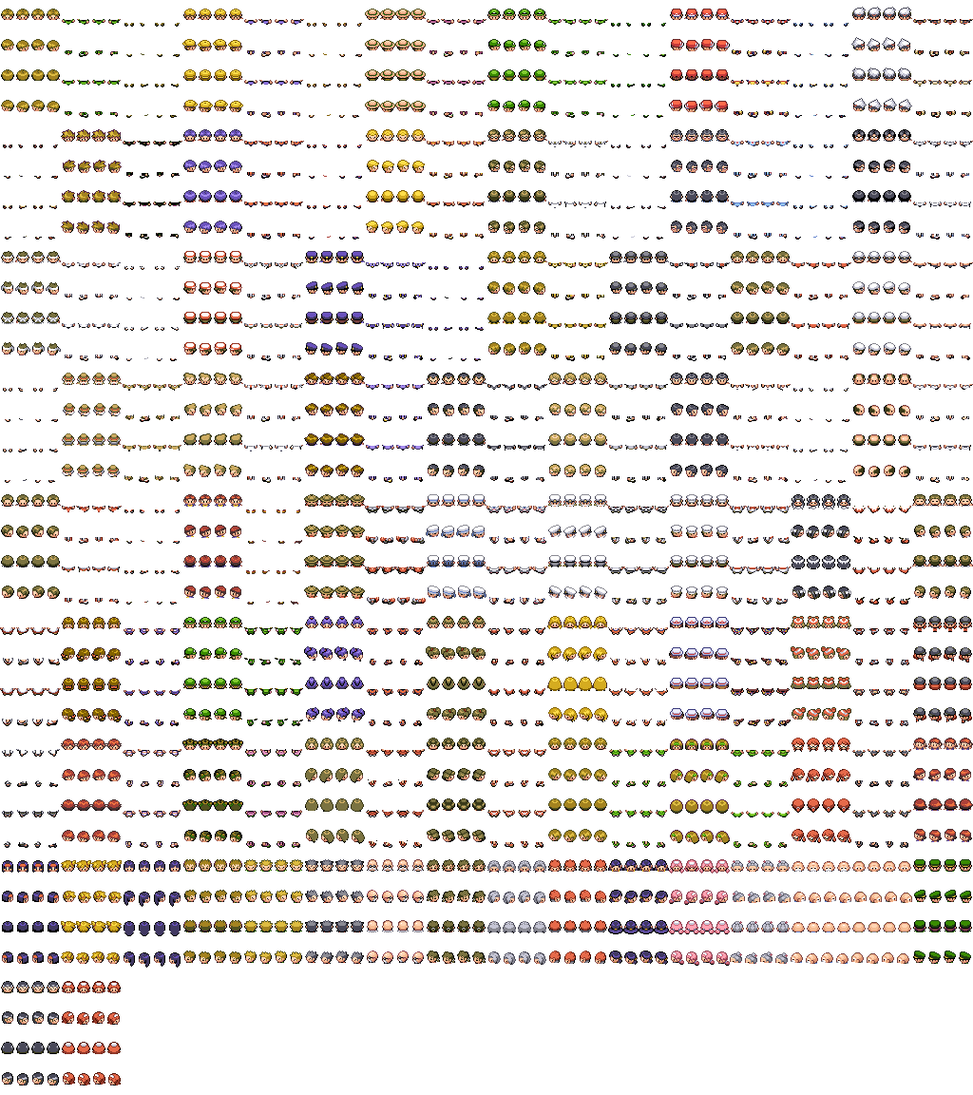
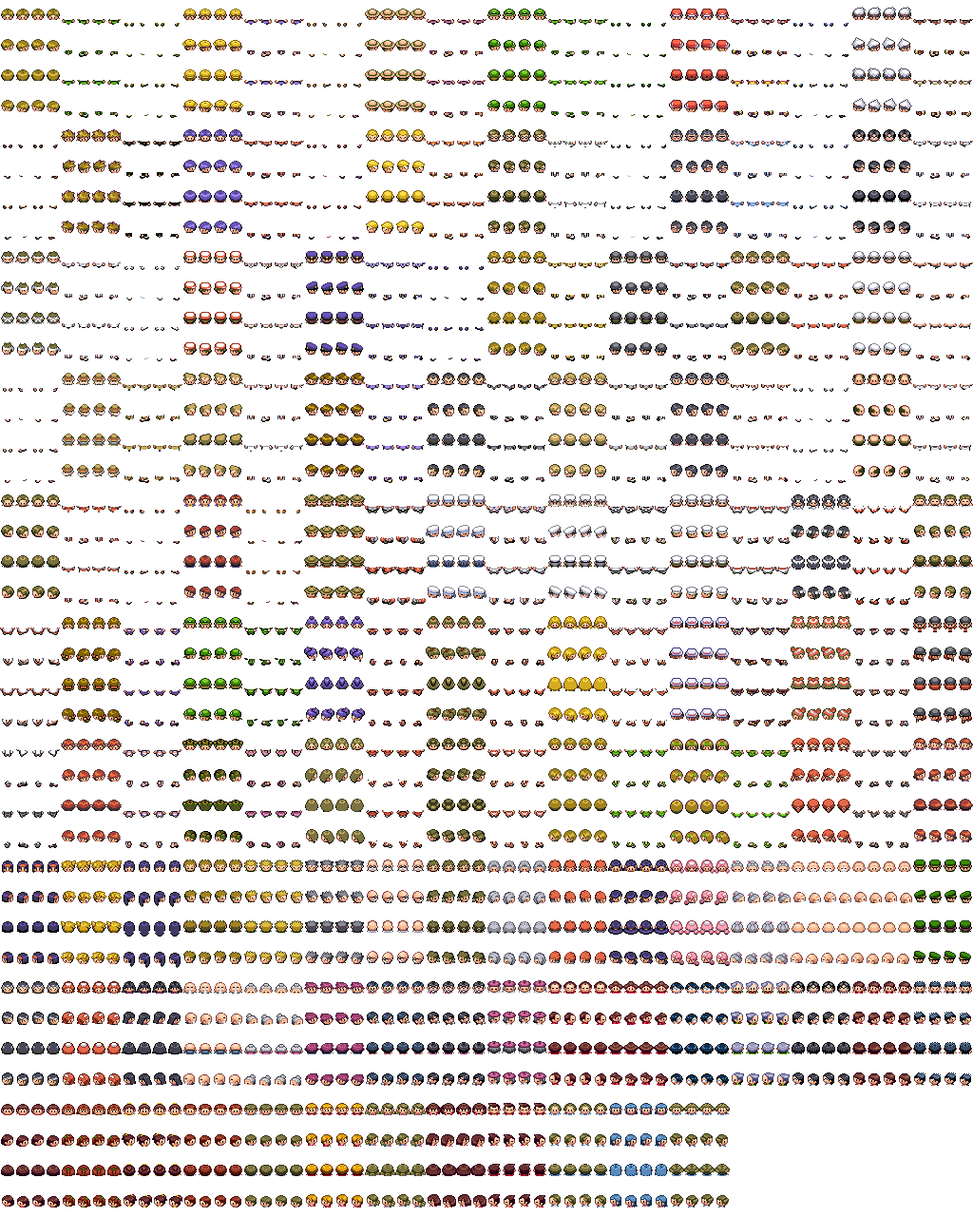
Twenty-six more heads at the boutique, from Emerald's people (#402)
Emerald's people are drawn on FireRed's body - eyes and chin on the
same rows, a pixel's bob on a step - so their heads sit on it as
FireRed's own do. The cutter takes `emerald:` donors from
pret/pokeemerald at 731ad5b (`--emerald=`): a Hex Maniac's long hair,
an Expert's white beard, an Artist's beret, a PokeFan's sun hat, a
Triathlete's ponytail, ginger pigtails, a wide-brimmed hat and more,
209 pieces in all. Their walks reach under the soles, so no Emerald
outfit was cut.

diff --git a/src/game/look/wearables.ts b/src/game/look/wearables.ts
@@ -670,6 +670,202 @@ const ROWS: readonly Row[] = [
     'The boss of Team Rocket. Do not ask how.',
   ],
 
+  // -- more hats and hair, from Emerald's people (`scripts/wearable-donors.json`, `emerald:`) --
+  [
+    'hex-maniac-hair',
+    "Hex Maniac's long hair",
+    'hair',
+    'head-e-hex-maniac',
+    'smart',
+    380,
+    'Long, dark and a little spooky.',
+  ],
+  [
+    'expert-beard',
+    "Expert's white beard",
+    'hair',
+    'head-e-expert-m',
+    'smart',
+    340,
+    'A lifetime of battles, worn on the chin.',
+  ],
+  [
+    'expert-bun',
+    "Expert's grey bun",
+    'hair',
+    'head-e-expert-f',
+    'everyday',
+    160,
+    'Neat, grey and not to be underestimated.',
+  ],
+  [
+    'psychic-sweep',
+    "Psychic's swept hair",
+    'hair',
+    'head-e-psychic-m',
+    'smart',
+    300,
+    'Combed back with the mind, apparently.',
+  ],
+  [
+    'reporter-bob',
+    "Reporter's bob",
+    'hair',
+    'head-e-reporter-f',
+    'everyday',
+    140,
+    'Short enough for a headset, always on air.',
+  ],
+  [
+    'reporter-specs',
+    "Reporter's specs",
+    'hair',
+    'head-e-reporter-m',
+    'everyday',
+    160,
+    'For reading the autocue.',
+  ],
+  [
+    'artist-beret',
+    "Artist's beret",
+    'hat',
+    'head-e-artist',
+    'smart',
+    420,
+    'Paint on the brim, inspiration under it.',
+  ],
+  [
+    'fan-crop',
+    "PokéFan's crop",
+    'hair',
+    'head-e-pokefan-m',
+    'everyday',
+    120,
+    'Short, so nothing gets between him and his Pokémon.',
+  ],
+  [
+    'fan-sun-hat',
+    "PokéFan's sun hat",
+    'hat',
+    'head-e-pokefan-f',
+    'everyday',
+    150,
+    'For a day out with her favourite Pokémon.',
+  ],
+  [
+    'school-cut',
+    "School Kid's neat cut",
+    'hair',
+    'head-e-school-kid-m',
+    'everyday',
+    100,
+    'Combed for the Trainer School.',
+  ],
+  [
+    'judge-silver',
+    "Judge's silver hair",
+    'hair',
+    'head-e-contest-judge',
+    'smart',
+    300,
+    'Distinguished, and quick to score.',
+  ],
+  [
+    'ruin-specs',
+    "Ruin Maniac's specs",
+    'hair',
+    'head-e-maniac',
+    'everyday',
+    140,
+    'For reading what is carved on old stones.',
+  ],
+  [
+    'triathlete-tail',
+    "Triathlete's ponytail",
+    'hair',
+    'head-e-running-triathlete-f',
+    'everyday',
+    150,
+    'Tied back for the long run.',
+  ],
+  [
+    'triathlete-spikes',
+    "Triathlete's spikes",
+    'hair',
+    'head-e-running-triathlete-m',
+    'everyday',
+    150,
+    'Standing up on its own, mid-race.',
+  ],
+  ['brown-bob', 'Brown bob', 'hair', 'head-e-girl-1', 'everyday', 110, 'Short and simple.'],
+  [
+    'ginger-pigtails',
+    'Ginger pigtails',
+    'hair',
+    'head-e-girl-2',
+    'everyday',
+    130,
+    'One each side, always bouncing.',
+  ],
+  ['ginger-bun', 'Ginger bun', 'hair', 'head-e-girl-3', 'everyday', 130, 'Up, round and ginger.'],
+  ['red-mop', 'Red mop', 'hair', 'head-e-boy-1', 'everyday', 110, 'Never quite combed.'],
+  ['olive-mop', 'Olive mop', 'hair', 'head-e-boy-2', 'everyday', 100, 'A shaggy mop, in olive.'],
+  [
+    'blond-spikes',
+    'Blond spikes',
+    'hair',
+    'head-e-man-3',
+    'everyday',
+    160,
+    'A lot of gel went into this.',
+  ],
+  [
+    'olive-bun',
+    'Olive bun',
+    'hair',
+    'head-e-woman-4',
+    'everyday',
+    120,
+    'Up and out of the way, in olive.',
+  ],
+  ['brown-waves', 'Brown waves', 'hair', 'head-e-woman-5', 'everyday', 150, 'Long and wavy.'],
+  [
+    'office-cut',
+    'Office cut',
+    'hair',
+    'head-e-devon-employee',
+    'everyday',
+    100,
+    'Smart enough for any company.',
+  ],
+  [
+    'clerk-blond',
+    'Blond counter cut',
+    'hair',
+    'head-e-mart-employee',
+    'everyday',
+    110,
+    'Tidy, for serving behind a counter.',
+  ],
+  [
+    'sky-bob',
+    'Sky-blue bob',
+    'hair',
+    'head-e-teala',
+    'smart',
+    360,
+    'Blue as a clear morning over the sea.',
+  ],
+  [
+    'wide-brim',
+    'Wide-brimmed hat',
+    'hat',
+    'head-e-rooftop-sale-woman',
+    'smart',
+    380,
+    'Shade for a whole afternoon of bargains.',
+  ],
+
   // -- tops and jackets ------------------------------------------------------------
   ['plain-tee', 'Plain tee', 'top', 'top-boy', 'starter', null, 'A good green tee to start from.'],
   [

diff --git a/AGENTS.md b/AGENTS.md
@@ -117,7 +117,7 @@ This file is the project's committed home for project-intrinsic agent knowledge:
 - **Raiding with a friend is a room by code, on the harbour's own link** (multiplayer phase 1, 13 Oct; plan: rooms of 2-4, own clocks, one hunter for the group, first-step loot, phrases and a ping, shared discoveries, boss doors for all - landed in stages). `src/game/raidRoom/` is all of it: the database decides who made a room, its map and who is in it (`*_raid_rooms*.sql`: `open_raid_room`, `join_raid_room`, `leave_raid_room`, four consonants a code, four a room, one hour open, every count under a lock), and only members of an open room may listen or speak on its private channel `raid:<code>` (`may_walk_raid_room`). The channel is `HarbourLink<RaidPlace>` over a raid wire - `HarbourLink`, `HarbourCrowd` and `HarbourWire` are generic over the place type, so a new shared space is a protocol and a wire, never a second link - and `FriendRoom` (`friendRoom()`, kept for the page) is the session every scene asks. A room is made or joined in Oak's Lab (`HubScene` view `friend`, markup `hub/friendRoomView.ts`), and while one is held the drop-in is held to its map and `startRun` refuses any other; `WorldScene.joinFriendRoom`/`updateFriend` draw the others with `HarbourFigures` and the friend chip (`friendChipLines`), and `ExtractionScene` leaves the room on every raid ending. **One hunter for the room** (`raidRoom/groupHunter.ts`): the browser with the lowest id on the map and not in a fight is its *keeper* and runs it as a raid alone does - quarry the nearest player not in a fight, a step only when that quarry steps - and says it on the room's `signal` event (`HarbourWire.signal`, `HarbourLink.whenSignalled`); everybody else draws it there (`WorldScene.huntRole`, `takeSharedHunter`) and runs none of their own. A catch is the caught player's own fight; it is said as `busy`, the hunter holds and the keeper falls silent until the fighter's `after` (fled and where to, or beaten for all), which the keeper takes over. A keeper that leaves or starts a fight hands over by the next in line taking the last word heard. **Loot to whoever steps on it first** (`raidRoom/roomLoot.ts`): the room map's loot is laid from the room's database seed (`generateRoomLoot`: every gate shut, from the front door, on its own stream, so it is the same ground in every member's raid and moves nothing else) and swapped into the plan at deploy (`withRoomLoot`, `RunPlan.roomLootIds`; an errand's thing stays the player's own). A step onto a shared piece is a claim (`take_raid_loot`, first claim holds under a lock); the piece is collected on the frame the answer is this player's (`WorldScene.settleRoomLoot`), and a winner's `took` signal and `raid_loot_taken` on drop-in take it off everybody else's map. **Quick phrases and a ping** (`raidRoom/roomTalk.ts`, keys in `ROOM_KEY_LETTERS`): T opens six fixed phrases, 1-6 says one, G pings the tile stood on; a phrase is an index, never text, and talk is paced at both ends (`SAY_EVERY_MS`, `PING_EVERY_MS`). A friend's name plate is drawn at `RAID_NAME_PLATE_DEPTH`, above the canopy. **Shared discoveries and boss doors**: a friend's walk is surveyed into this raid's own survey (`WorldScene.surveyWithFriends`), written at the raid's end as ever; a boss win is said to the room (`raidRoom/roomBosses.ts`, `FriendRoom.won`, repeated to anybody who arrives) and opens that keeper's doors - and stands the keeper aside - in every member's raid for that raid only (`WorldScene.roomDoors`, read by `openedDoorKeys` and `trainersForCurrentMap`, rebuilt in place by `openRoomDoors`), never in their save. Nothing in a message is believed beyond where it draws something. Tests use the harbour's switch: `?harbour=local` puts rooms in `localStorage` and the wire on a `BroadcastChannel`, and `tools/playtest/friendRaid.mjs` plays two tabs (`docs/screens/raid-with-a-friend/`); the two tabs share one save, so the second steps round the first's raid-in-flight mark, which no pair of devices needs.
 - **THE BOLTHOLE is decorated Habbo-style: H in the house, then pick up, carry, turn (R) and put down furniture on the room's tiles, with Q/E walking the box and X putting a piece away** (the captain, 2026-10-12). `home/furniture.ts` is the catalogue - Emerald's Secret Base desks, chairs, plants, mats, cushions and dolls plus the house's own pot plants and table, cut by `scripts/cut-home-furniture.mjs` from pret/pokeemerald at `731ad5b` (shared GBA reader `scripts/gba.mjs`) onto `home-furniture.png`, and FireRed party icons for the dolls Emerald never drew. **The only thing stored is `RaidProgress.homeLayout`** (furniture id, room, top-left tile, facing; optional, absent reads as `DEFAULT_HOME_LAYOUT`, the house as it always stood): what a save owns is derived (`ownedFurniture`: the house's own, furniture items in the vault, a doll per Pokédex kind), and a layout is read back through the same rules it was made with (`arrangeHouse`, in layer order), so a piece no longer owned or no longer fitting is simply back in the box. `home/arrangement.ts` is the rules (floor only, never a mat, a rug on bare floor, a doll or cushion on a desk or table top, and `blockedBy`: the door, the stairs, the player and every fixed thing that answers stay reachable); `home/decorating.ts` is the key-at-a-time state machine, which writes nothing until a piece lands; `base/decorateMode.ts` draws it and turns keys and the pointer (click, right click, wheel) into it; `buildRoom` builds a home room as the fixed house plus `BuiltRoom.home`, and a seasonal piece gives way to furniture. Furniture is a **sprite**, never a tile (`base/furnitureArt.ts`: rugs at `FLOOR_FURNITURE_DEPTH`, the rest y-sorted with the figures, captions kept clear of it). Raid finds are items of category `furniture` (found-only, never offered secure-container room, lost on a wipe): commons are ordinary pool rows with no district - a pool row tied to a district behind a shut gate breaks `runGeneration.test.ts`'s half-the-pool rule - and one super-rare prize a map at `chance: 0.06`, a hair above the Bicycle, which `bicycle.test.ts` holds to the longest odds of any prize. `tools/playtest/decorate.mjs` plays all of it; `renderBase.mts --layout= --dex= --found=` draws a furnished room.
 - **The console under the Bolthole's telly plays real games, each from a repository of its own, with a Pallet Town leaderboard per game** (the captain, 2026-10-12; Pallet Blocks is the first, github.com/OllySalanson/pallet-blocks). Facing it opens `scenes/ConsoleScene.ts` over the paused house: the GAMES menu (`console/gamesMenu.ts`, pixel-ui) lists the games, shows the board for the one under the cursor, and asks for a name once per device (`console/playerName.ts`: the games' own rule - capitals, digits and `. ! ? ' -`, ten at most - plus `world/wordFilter.ts`). Picking a game destroys the menu - its `overlayKeyboard` claim would otherwise stop every key at the window before the game's element saw it - and mounts the game full-window in a `.console-game` element (the FEEDBACK key leaves keys pressed inside it alone); the game's EXIT or Esc on its title goes back to the house. The handoff is `console/consoleSession.ts`, Phaser-free and tested. A game's code is **vendored as built, never a git dependency**: the map publishing workflow installs with `--ignore-scripts`, so a dependency built by npm's `prepare` would not exist there. **Adding a game is three steps**: a row in `CONSOLE_GAME_SOURCES` in `scripts/fetch-console-games.mjs` (repo, pinned commit, build command, module and types paths) and `node scripts/fetch-console-games.mjs <id>`, which builds it and writes `src/game/console/vendor/<id>/` with a `SOURCE.json` sha256; a row in `CONSOLE_GAMES` in `console/consoleGames.ts` whose `mount` adapts the console's one contract (`ConsoleGameHost`: name, `onGameOver`, `loadLeaderboard`, `onExit`) to that game's embed API through a dynamic `import()`, so nobody downloads a game until they play it; and a migration `insert into private.console_games (id, name) values (...)` applied as below. `console/vendor.test.ts` fails a game missing any of the three; bumping a game is a new commit in its row and a re-run. The boards are `console_scores` in the Supabase project below: `submit_console_score` checks game, name (the same regex and word lists, held to the game's by `console/leaderboardSql.test.ts`), plausibility (`CONSOLE_SCORE_LIMITS`) and rate (10 s apart, 60 a day a player, 5000 a day overall, under an advisory lock); `console_leaderboard` is each player's best, top ten, hidden and blocked players left off. Every score goes on this device's board first (`console/leaderboard.ts`, `DeviceBoard`), and the menu falls back to that board, saying so, whenever Pallet Town does not answer - an error or `BOARD_ANSWER_MS` of silence, because a hung connection never fails. A board is read signed out; only posting signs in (behind the bot check), and a score that did not get there is kept in `WaitingScores` (best per game and name), said over the game (`.console-note`) and sent the next time the console is sat at. The collector keeps any visitor who holds a score (`tools/feedback/collector.ts`), because removing them would cascade their name off the board.
-- **What the player wears is a look, and THE HARBOUR BOUTIQUE sells the pieces** (the captain, 2026-10-28; `src/game/look/`). A look is four catalogue ids - a head (hat or hair), a top, trousers, and an optional whole outfit worn over the two - and `null` is the **classic** look, the `character.png` figure every save starts in and every save written before the boutique reads as (`raidProgress.look`, absent = classic; `raidProgress.wardrobe` is what was bought; ownership is `look/wardrobe.ts`'s `ownedWearables`, the starter pieces plus that list). Every piece is cut from FireRed's own people by `scripts/cut-frlg-wearables.mjs` (donors in `scripts/wearable-donors.json`, pret at `037335f`) onto `public/assets/wearables.png`, a 64x128 block each in the walk grid `playerFrames.ts` reads: FireRed draws most of its people on one shared body, so a piece cut by *position* against the reference `boy` fits every other piece in every frame by construction, and the cutter refuses one that strays (a stride under the soles). A colour variant is never cut - it is the same piece with one of FireRed's three-shade ramps swapped for another at run time (`WEARABLE_RAMPS`, plus `RAID_RAMPS` for the raid-only legendary and shiny colours). `look/wearables.ts` is the catalogue and the economy (everyday/smart/fine for Pokédollars, the famous people's own looks barter-only in found goods, raid finds never sold), its `BOUTIQUE_NAME` the one place the shop is named; `look/composeLook.ts` lays pieces into pixels (pure, whole-pixel), `look/lookTexture.ts` turns a look into a 17-column sheet laid out as `character.png` is (so every frame index means the same frame) with its walk under `getWalkAnimationKey(direction, texture)` - the classic look is never composed, and a scene with no textures (under test) draws classic. The player is drawn from `lookTexture` in `BaseScene` and `WorldScene` (the raid's look rides in on `ActiveRunSession.look`, read once at the door). The shop and the wardrobe are one screen, `scenes/BoutiqueScene.ts` over the paused harbour (markup `look/boutiqueView.ts`): pointing at a card puts it in the mirror and commits nothing, ENTER tries it on, the foot bar buys (`SaveManager.buyAndWear`, one write) or wears (`SaveManager.wearLook`). The boutique is a room (FireRed's Poké Mart pieces from the areas sheet) behind Vermilion's Fan Club building at the top of THE GREEN, with a plain shopkeeper; its door is held to its own walk in `baseMap.test.ts`, not the keepers'; the wardrobe is YOUR WARDROBE, the drawers upstairs in THE BOLTHOLE. Other players see the look: it rides on a harbour move as `w`, the pieces' ids in slot order (`encodeLook`/`readWireLook` in `harbour/harbourProtocol.ts`, untrusted - three or four short strings, believed only through `readLook`), and `HarbourFigures` draws every figure, the regulars included (`HarbourBot.look`), from `lookTexture`. The twelve raid-only pieces (legendary and shiny colours, `RAID_WEARABLES`) are items of their own ids (category `wearable`, found-only, never offered secure room, lost with the pack) laid as Greystone Vale prizes in `world/filePrizes.ts` at 6-8% - rarer than any find but the Bicycle - each in a place whose first item spot is its own (`loot.test.ts` fails one that falls back outside), and owned while the vault holds one (`ownedWearables(wardrobe, vault)`); their bag icons are the piece worn, drawn by `scripts/draw-wearable-icons.mts`. `tools/playtest/boutique.mjs` plays the shop and the wardrobe, `sharedHarbour.mjs` a look crossing the wire.
+- **What the player wears is a look, and THE HARBOUR BOUTIQUE sells the pieces** (the captain, 2026-10-28; `src/game/look/`). A look is four catalogue ids - a head (hat or hair), a top, trousers, and an optional whole outfit worn over the two - and `null` is the **classic** look, the `character.png` figure every save starts in and every save written before the boutique reads as (`raidProgress.look`, absent = classic; `raidProgress.wardrobe` is what was bought; ownership is `look/wardrobe.ts`'s `ownedWearables`, the starter pieces plus that list). Every piece is cut from FireRed's own people by `scripts/cut-frlg-wearables.mjs` (donors in `scripts/wearable-donors.json`, pret at `037335f`; `emerald:` donors are heads only, from pret/pokeemerald at `731ad5b` via `--emerald=`) onto `public/assets/wearables.png`, a 64x128 block each in the walk grid `playerFrames.ts` reads: FireRed draws most of its people on one shared body, so a piece cut by *position* against the reference `boy` fits every other piece in every frame by construction, and the cutter refuses one that strays (a stride under the soles). A colour variant is never cut - it is the same piece with one of FireRed's three-shade ramps swapped for another at run time (`WEARABLE_RAMPS`, plus `RAID_RAMPS` for the raid-only legendary and shiny colours). `look/wearables.ts` is the catalogue and the economy (everyday/smart/fine for Pokédollars, the famous people's own looks barter-only in found goods, raid finds never sold), its `BOUTIQUE_NAME` the one place the shop is named; `look/composeLook.ts` lays pieces into pixels (pure, whole-pixel), `look/lookTexture.ts` turns a look into a 17-column sheet laid out as `character.png` is (so every frame index means the same frame) with its walk under `getWalkAnimationKey(direction, texture)` - the classic look is never composed, and a scene with no textures (under test) draws classic. The player is drawn from `lookTexture` in `BaseScene` and `WorldScene` (the raid's look rides in on `ActiveRunSession.look`, read once at the door). The shop and the wardrobe are one screen, `scenes/BoutiqueScene.ts` over the paused harbour (markup `look/boutiqueView.ts`): pointing at a card puts it in the mirror and commits nothing, ENTER tries it on, the foot bar buys (`SaveManager.buyAndWear`, one write) or wears (`SaveManager.wearLook`). The boutique is a room (FireRed's Poké Mart pieces from the areas sheet) behind Vermilion's Fan Club building at the top of THE GREEN, with a plain shopkeeper; its door is held to its own walk in `baseMap.test.ts`, not the keepers'; the wardrobe is YOUR WARDROBE, the drawers upstairs in THE BOLTHOLE. Other players see the look: it rides on a harbour move as `w`, the pieces' ids in slot order (`encodeLook`/`readWireLook` in `harbour/harbourProtocol.ts`, untrusted - three or four short strings, believed only through `readLook`), and `HarbourFigures` draws every figure, the regulars included (`HarbourBot.look`), from `lookTexture`. The twelve raid-only pieces (legendary and shiny colours, `RAID_WEARABLES`) are items of their own ids (category `wearable`, found-only, never offered secure room, lost with the pack) laid as Greystone Vale prizes in `world/filePrizes.ts` at 6-8% - rarer than any find but the Bicycle - each in a place whose first item spot is its own (`loot.test.ts` fails one that falls back outside), and owned while the vault holds one (`ownedWearables(wardrobe, vault)`); their bag icons are the piece worn, drawn by `scripts/draw-wearable-icons.mts`. `tools/playtest/boutique.mjs` plays the shop and the wardrobe, `sharedHarbour.mjs` a look crossing the wire.
 - **THE DAY-CARE raises one Pokémon while you raid** (`hub/dayCare.ts`, FireRed's Route 5 Day-Care with its words; the yard half is `base/dayCarePen.ts`): a fenced pen on the lawn past THE BOLTHOLE, FireRed's own Day-Care Man (a `gentleman`, as pret's map has him) at its fence opening HubScene's `daycare` view, and the left Pokémon walking about inside as its FireRed party icon (`BaseScene.wanderPen`). The left Pokémon is **out of the vault** - `Stash.dayCare()`, saved as `SavedStash.dayCare` (optional, no version bump) - so no raid, payment, secure fill or wipe can reach it without being told; it keeps its stash id (`nextPokemonId`/`addPokemon` refuse it) and its partner mark, and `ensurePlayable` ignores it so a wipe of the rest still re-issues a starter. Growth is **derived, never stored**: the stay records `raidsCompleted` when it was left (`raidsDeployed` less a raid in flight) and each raid ended since pays half the span of the level reached (`DAY_CARE_SHARE_OF_A_LEVEL`) - two raids a level on every curve; a flat FireRed-style sum was tabulated and refused (+8 levels in three raids at level 3, nothing past 20). Taking it back replays that through `gainExperience({ evolve: false })` (FireRed's Day-Care never evolves) and queues a move with no room rather than pushing the oldest out as FireRed does, then `HubScene.offerPendingMoves` asks. It is not a heal (FireRed's is: a box Pokémon has no HP), so he refuses a fainted one, which FireRed takes and hands back revived (`dayCareRefusal`), and charges no fee (FireRed's ₽100 + ₽100 a level), both on purpose - Joy's price and Bill's faucet. The pen is the one patch of yard grass that is shut on purpose, so `baseMap.test.ts`'s every-tile-reachable rule leaves it out; the man is a stroll (21 steps from the yard), not a seven-step door. `tools/playtest/dayCare.mjs` plays the whole loop.
 - **Everything bartered to Bill stands on a shelf in his cottage** (the captain liked the idea, 2026-09-24): his cabinet of oddities, so the one keeper whose deals left nothing behind has a room that fills with the player's history. `hub/traderCabinet.ts` is **Bill's book** - `raidProgress.traderCabinet`, one entry per deal as struck (barter id, what went across, what came back, the day), written by `SaveManager.takeTraderBarter` and optional with no version bump. It is stored rather than derived, the one trader record that is: a stone repeats with no count kept, and history has to keep the price paid, not today's. Once-only deals struck before the book existed are recovered from `traderBarters`, first and undated. `base/cabinet.ts` is everything the room does with it: one **miniature** per unit handed over, a four-pixel pixel table per material (a 16px icon on a FireRed shelf is a crate the size of the cabinet), in a fixed seat for good - the nth thing traded always stands in the nth seat; the two units by the desk fill first, a second pair is carried in beneath them when they are full, then crates stack behind the first pair. Nothing on a shelf speaks until asked, one thing at a time: face a unit and press the interact key, walk the arrows along the shelves (`nextOddity`), or rest the pointer on a thing; `BaseScene.inspect` puts one label up and takes every other caption out of the seating. The miniatures are one atlas with a transparent gutter that each frame takes a column and row of: drawn from frames exactly their own size they rendered a column wider in WebGL and the crates on a shelf ran together. `npx vite-node tools/base/renderBase.mts -- out.png 3 --room=bills-cottage --traded=400 --inspect=3` draws it; `tools/playtest/billCabinet.mjs` plays it end to end; `docs/screens/bill-cabinet/`.
 - **A newcomer is told things once, by somebody** (playtest 43, the captain's option A): `hub/firstWords.ts` is what Professor Oak and Nurse Joy say the first time the lab, each step of preparation and the Pokémon Center open. They are recorded as heard the moment they are shown (`SaveManager.hearFirstWords`, `raidProgress.firstWordsHeard`, optional, no version bump) and drawn by `HubScene.firstWordsBox` as a text box over the foot of the screen (`pixelScreen`'s `over`, the body `inert` under it) that ENTER or ESC puts down. The HUDs name a key until the save has used it once (`raidProgress.keysLearned`): the yard's foot line until the first door, and the raid chip's second row for O, L, B and P. Both scenes bind those letters from the table the hints print (`input/keyBindings.ts`), and `input/keyBindings.test.ts` reads every printed letter back against the real `bindControls` with Phaser's own key codes - so a new hint is a row there, never a typed `[X]`. The hub writes its own whole copy of the game, so anything it records mid-screen must update that copy and its stamp, or the next `writeGame` erases it. The explorer save has heard and learned everything.

diff --git a/public/assets/ASSET_PROVENANCE.md b/public/assets/ASSET_PROVENANCE.md
@@ -853,6 +853,15 @@ FireRed's own colour ramps (`src/game/look/composeLook.ts`). Nothing from pret
 is committed. It is what the player wears (`src/game/look/`), the captain's ask
 of 2026-10-28.
 
+Twenty-six more heads were cut the same way on 2026-10-29 from
+**pret/pokeemerald** at commit `731ad5b` (the source `home-furniture.png` is
+cut from), `graphics/object_events/pics/people/*.png`, the `emerald:` donors in
+`scripts/wearable-donors.json`: Emerald's people are drawn on the same body,
+eyes and chin on the same rows and a pixel's bob on a step, so their heads sit
+on FireRed's as FireRed's own do. Their walks are their own and reach under the
+soles, so no Emerald outfit was cut. Same ruling, same rights holders; nothing
+from pret is committed.
+
 ### `frlg-ember.png` - a volcano's cave and its slopes' steps: FireRed's Mt. Ember
 
 **RIPPED FROM A COMMERCIAL POKEMON GAME, accepted knowingly** on the same ruling

diff --git a/README.md b/README.md
@@ -159,7 +159,7 @@ and say yes, you're let in to have a nose round. Six buildings, four of them kep
   HMs, fishing rods and, once he really trusts you, a Bicycle are bartered for things you found. Everything you trade him ends up on his
   shelves.
 - **The Harbour Boutique**, at the top of the Green, is where you stop looking like everybody else.
-  Every player starts in the same clothes; in here are 183 things to wear, all of them off
+  Every player starts in the same clothes; in here are 209 things to wear, all of them off
   somebody in Kanto - a Youngster's cap, a Hiker's hat and beard, Erika's bob, Misty's side tail,
   a lab coat, a Team Rocket tunic, a Lass's dress in five colours - plus whole looks from Champion
   Red to Giovanni to a Pikachu in a yellow cap. Try anything on in the mirror first: it walks for
